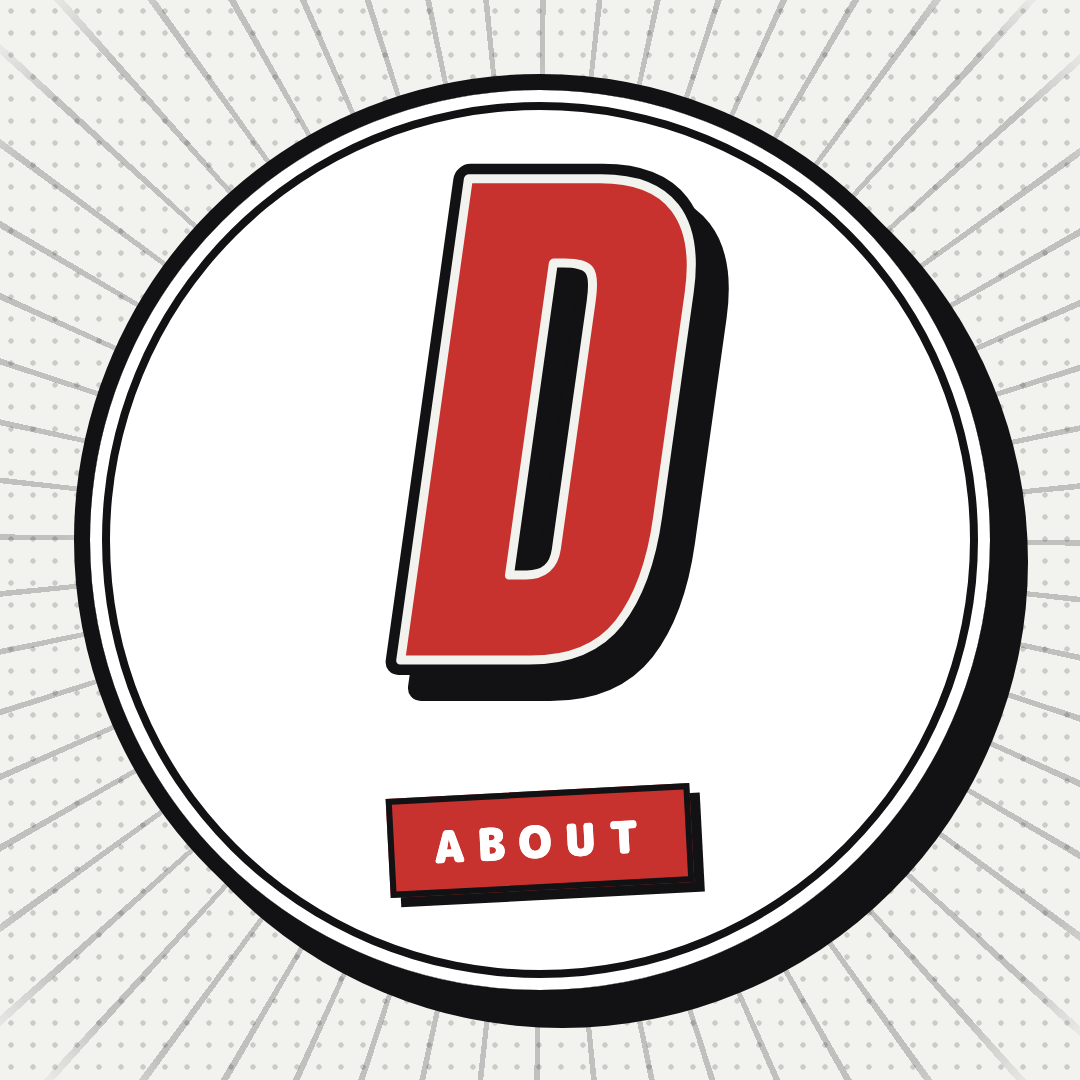
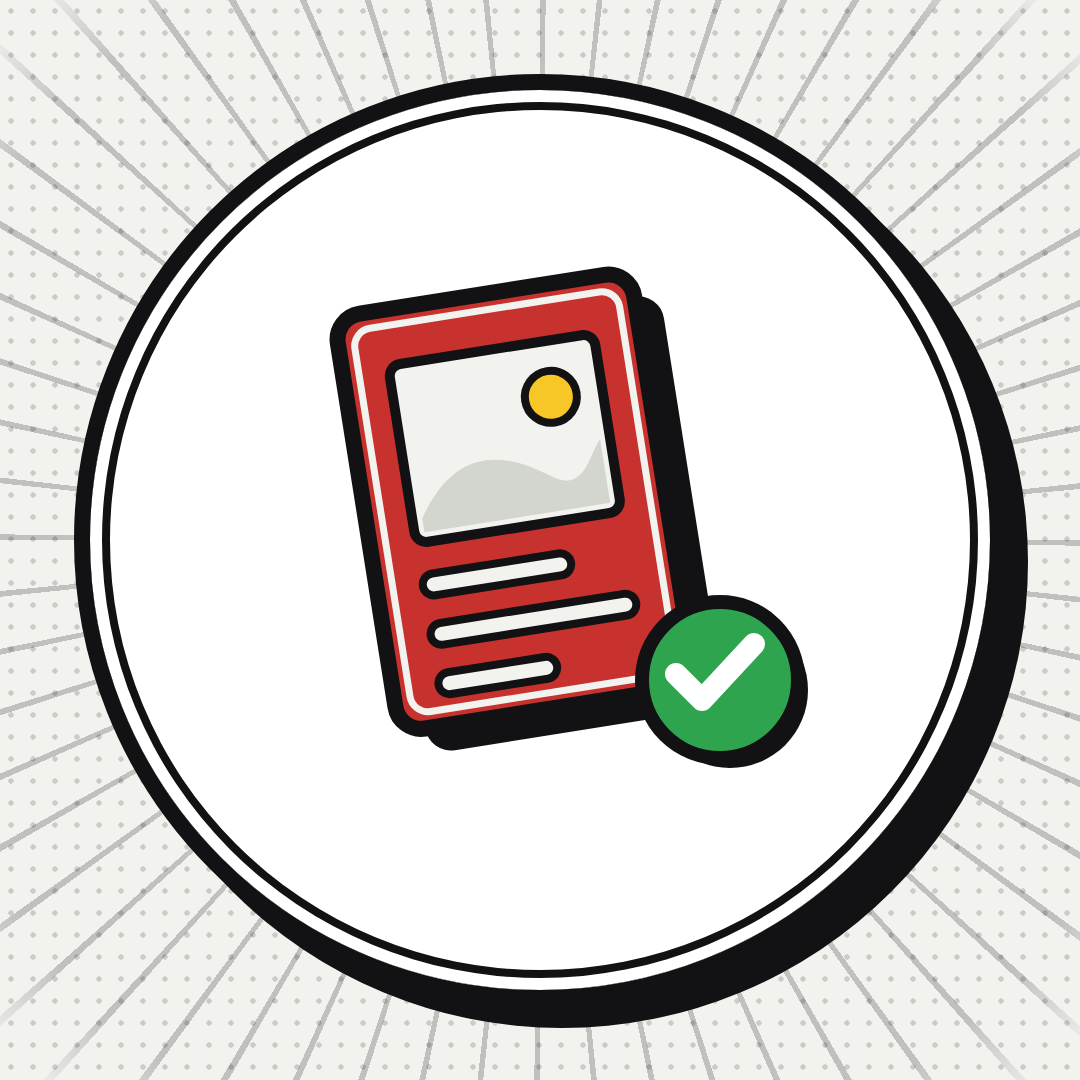
Highlight cover: wordless card-and-check badge

Changed region(s): [[0.3056, 0.1528, 0.7639, 0.8556]]

diff --git a/marketing/highlight-about.html b/marketing/highlight-about.html
@@ -19,8 +19,6 @@
     background:var(--paper2);border:16px solid var(--ink);box-shadow:inset 0 0 0 12px var(--paper2), inset 0 0 0 20px var(--ink), 22px 22px 0 var(--ink)}
   svg{position:absolute;left:0;top:0}
   .d{font-family:"Anton","Impact",sans-serif;font-size:560px;text-anchor:middle;paint-order:stroke fill;stroke-linejoin:round}
-  .label{position:absolute;left:50%;bottom:190px;transform:translateX(-50%) rotate(-3deg);background:var(--red);color:#fff;
-    font-weight:900;font-size:44px;letter-spacing:.3em;padding:12px 34px 10px 40px;border:6px solid var(--ink);box-shadow:10px 10px 0 var(--ink)}
 </style>
 </head>
 <body>
@@ -28,12 +26,28 @@
   <div class="speed"></div>
   <div class="disc"></div>
   <svg width="1080" height="1080" viewBox="0 0 1080 1080" xmlns="http://www.w3.org/2000/svg">
-    <g transform="translate(540 500) skewX(-8) translate(-540 -500)">
-      <text class="d" x="566" y="686" fill="#121114" stroke="#121114" stroke-width="30">D</text>
-      <text class="d" x="540" y="660" fill="#C8322E" stroke="#121114" stroke-width="30">D</text>
-      <text class="d" x="540" y="660" fill="none" stroke="#F2F3EF" stroke-width="9">D</text>
+    <!-- A single trading card, tilted like a thrown card, with the site's ink
+         outline, paper inner rule and hard shadow. No letters anywhere. -->
+    <g transform="translate(540 520) rotate(-9)">
+      <rect x="-146" y="-206" width="300" height="420" rx="26" fill="#121114"/>
+      <rect x="-172" y="-232" width="300" height="420" rx="26" fill="#C8322E" stroke="#121114" stroke-width="16"/>
+      <rect x="-156" y="-216" width="268" height="388" rx="18" fill="none" stroke="#F2F3EF" stroke-width="7"/>
+      <!-- art window -->
+      <rect x="-126" y="-176" width="208" height="180" rx="12" fill="#F2F3EF" stroke="#121114" stroke-width="10"/>
+      <!-- halftone hills inside the art window -->
+      <path d="M-116 -20 C -70 -90, -20 -70, 20 -40 C 50 -20, 60 -60, 72 -70 L 72 -6 L -116 -6 Z" fill="#B9BCB5" opacity=".55"/>
+      <circle cx="30" cy="-120" r="26" fill="#F7C728" stroke="#121114" stroke-width="8"/>
+      <!-- text-less "lines" -->
+      <rect x="-126" y="36" width="150" height="22" rx="11" fill="#F2F3EF" stroke="#121114" stroke-width="8"/>
+      <rect x="-126" y="86" width="208" height="22" rx="11" fill="#F2F3EF" stroke="#121114" stroke-width="8"/>
+      <rect x="-126" y="136" width="120" height="22" rx="11" fill="#F2F3EF" stroke="#121114" stroke-width="8"/>
+    </g>
+    <!-- caught ring -->
+    <g transform="translate(730 690)">
+      <circle r="78" fill="#121114"/>
+      <circle cx="-10" cy="-10" r="78" fill="#2FA44F" stroke="#121114" stroke-width="14"/>
+      <path d="M-44 -6 l26 26 l52 -56" fill="none" stroke="#fff" stroke-width="22" stroke-linecap="round" stroke-linejoin="round" transform="translate(-10 -10)"/>
     </g>
   </svg>
-  <div class="label">ABOUT</div>
 </body>
 </html>
